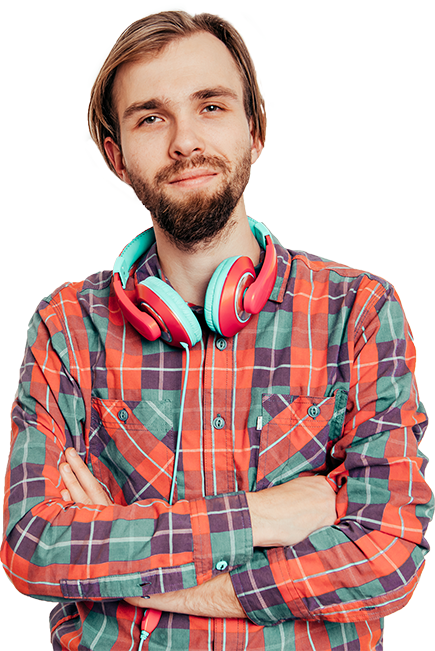
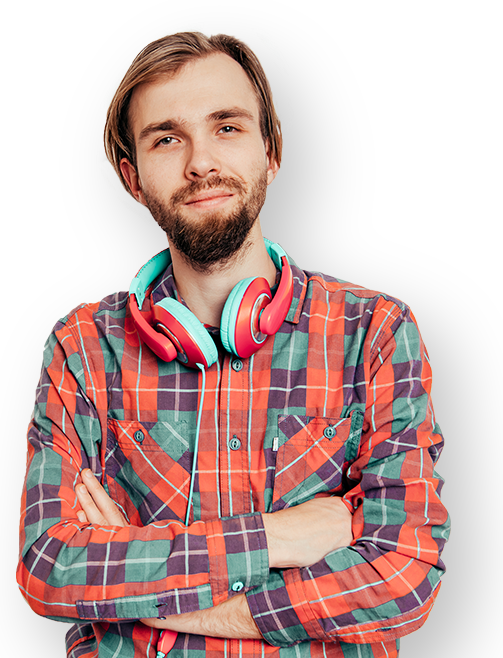
init commit

diff --git a/css/style.css b/css/style.css
@@ -104,6 +104,7 @@ a {
 	max-width: 1170px;
 	margin: 0 auto;
 	position: relative;
+	width: 100%;
 }
 
 .container-block-head__title, .mades-block-head__title {
@@ -244,6 +245,8 @@ a {
 	border: 1px solid #ff2289;
 
 	cursor: pointer;
+
+	transition: .5s ease;
 }
 
 .mobile-menu-right {
@@ -286,6 +289,8 @@ a {
 	font-weight: bold;
 
 	cursor: pointer;
+
+	transition: .25s ease;  
 }
 
 .icons {
@@ -339,12 +344,34 @@ a {
 
 .header-link-item__link {
 	margin-right: 20px;
+	padding-bottom: 3px;
+
+	transition: .25s ease; 
+
+	position: relative;
+
 }
+
+.header-link-item__link:before {
+    display: block;
+    position: absolute;
+    content: "";
+    height: 2px;
+    width: 0;
+    background: #ff2289;
+    transition: width 0.3s ease-in-out;
+    left: 0;
+    bottom: 0;
+}
+
+
 
 .header-link-item__link:hover{
 	color: #ff2289;
+}
 
-	border-bottom: 1px solid #ff2289;
+.header-link-item__link:hover:before {
+    width: 100%;
 }
 
 .header-number__link:hover {
@@ -399,13 +426,6 @@ a {
 	margin: 100px auto;
 }
 
-.container{
-	width: 100%;
-	max-width: 1250px;
-	padding: 0 40px;
-	margin: 0 auto;
-}
-
 .contact-item__link {
 	margin-bottom: 20px;
 }
@@ -436,21 +456,11 @@ a {
 .top-section{
 	position: relative;
 	background-color: #fbfbfb;
-}
-
-.top-section__ellipse{
-	position: absolute;
-	bottom: 0;
-	right: 0;
-	width: 814px;
-	height: 630px;
-	overflow: hidden;
-}
-
-.top-section__ellipse svg{
-	display: block;
-	width: 100%;
-	height: 100%;
+	background-image: url('../img/bg.png');
+	background-position: left center;
+	background-size: auto 100%;
+	background-repeat: no-repeat;
+	background-position-x: right;
 }
 
 .top-section__wrap{
@@ -473,6 +483,7 @@ a {
 
 .top-section__txt{
   	flex-grow: 1;
+  	margin: -60px 0 46px;
 }
 
 .top-section__pic{
@@ -482,9 +493,7 @@ a {
 	right: -81px;
 }
 
-.top-section__hgroup{
-  	margin: -60px 0 46px;
-}
+
 
 .top-section__title{
 	color: #1f1f24;
@@ -637,12 +646,6 @@ a {
 		width: 320px;
 	}
 
-	.top-section__ellipse {
-		right: -170px;
-		width: 678px;
-		height: 524px;
-	}
-
 	.made-icons {
 		display: flex;
 		flex-wrap: wrap;
@@ -708,7 +711,7 @@ a {
 		margin-top: 15px;
 		font-size: 35px;
 	}
-	.container{
+	.fixed-container{
 		padding: 0 20px;
 	}
 
@@ -723,13 +726,6 @@ a {
 		padding: 0;
 	}
 
-	.top-section__ellipse{
-		bottom: auto;
-		top: 84px;
-		width: 380px;
-		height: 294px;
-		right: -30px;
-	}
 
 	.top-section__wrap{
 		display: block;
@@ -739,6 +735,8 @@ a {
 		background-color: #fff;
 		padding: 18px 20px 0;
 		text-align: center;
+		margin: 0 0 25px;
+
 	}
 
 	.top-section__pic{
@@ -748,9 +746,6 @@ a {
 		padding-top: 50px;
 	}
 
-	.top-section__hgroup{
-		margin: 0 0 25px;
-	}
 
 	.top-section__title{
 		margin-bottom: 12px;

diff --git a/index.html b/index.html
@@ -49,37 +49,20 @@
 						<span class="tag-container__items tag-container__item-5">&lt;div&gt;</span>
 						<span class="tag-container__items tag-container__item-6">&lt;/&gt;</span>
 					</div>
-			  	<div class="top-section__ellipse">
-				    <svg xmlns="http://www.w3.org/2000/svg" width="814" height="630" viewBox="0 0 814 630">
-					    <defs>
-					        <linearGradient id="gradient" x1="371.97" x2="548.51" y1="763.68" y2=".74" gradientUnits="userSpaceOnUse">
-								<stop offset="0" stop-color="#ffcc81"/>
 
-								<stop offset=".99" stop-color="#ff2289"/>
-
-								<stop offset="1" stop-color="#ff2289"/>
-					        </linearGradient>
-					    </defs>
-
-					    <path fill="url(#gradient)" d="M395.52 40.407C502.261-10.05 602.994-10.204 687.212 27.67c84.435 37.567 152.356 113.165 198.491 207.114 44.27 94.884 44.223 196.799 8.068 279.242-36.656 83.673-97.666 146.755-180.805 191.777-44.03 22.669-90.312 38.198-149.148 47.731-58.06 9.394-128.676 12.79-203.493 7.944-148.474-9.32-314.876-53.081-349.967-151.79-19.887-49.012-7.404-105.197 17.32-161.739 25.13-56.624 62.503-113.604 101.74-166.115 39.645-52.593 81.155-100.717 123.891-141.53C296.45 99.41 340.817 65.828 395.52 40.408z"/>
-			   		</svg>
-			  </div>
-
-			  <div class="container fixed-container">
+			  <div class="fixed-container">
 			    <figure class="top-section__wrap">
-					<div class="top-section__pic">
-						<img src="img/man.png" alt="Дмитрий Алексеев | Frontend-разработчик и веб-верстальщик">
-					</div>
 
-					<figcaption class="top-section__txt">
-						<hgroup class="top-section__hgroup">
-							<h1 class="top-section__title">Дмитрий Алексеев</h1>
+					<img src="img/man.png" alt="Дмитрий Алексеев | Frontend-разработчик и веб-верстальщик" class="top-section__pic">
 
-							<h2 class="top-section__subtitle">Frontend-разработчик и веб-верстальщик</h2>
-						</hgroup>
+					<div class="top-section__txt">
+
+						<h1 class="top-section__title">Дмитрий Алексеев</h1>
+
+						<p class="top-section__subtitle">Frontend-разработчик и веб-верстальщик</p>
 
 						<a class="btn btn--red top-section-btn js-scroll-link" href="#about">Узнать больше</a>
-					</figcaption>
+					</div>
 			    </figure>
 			  </div>
 		</section>
